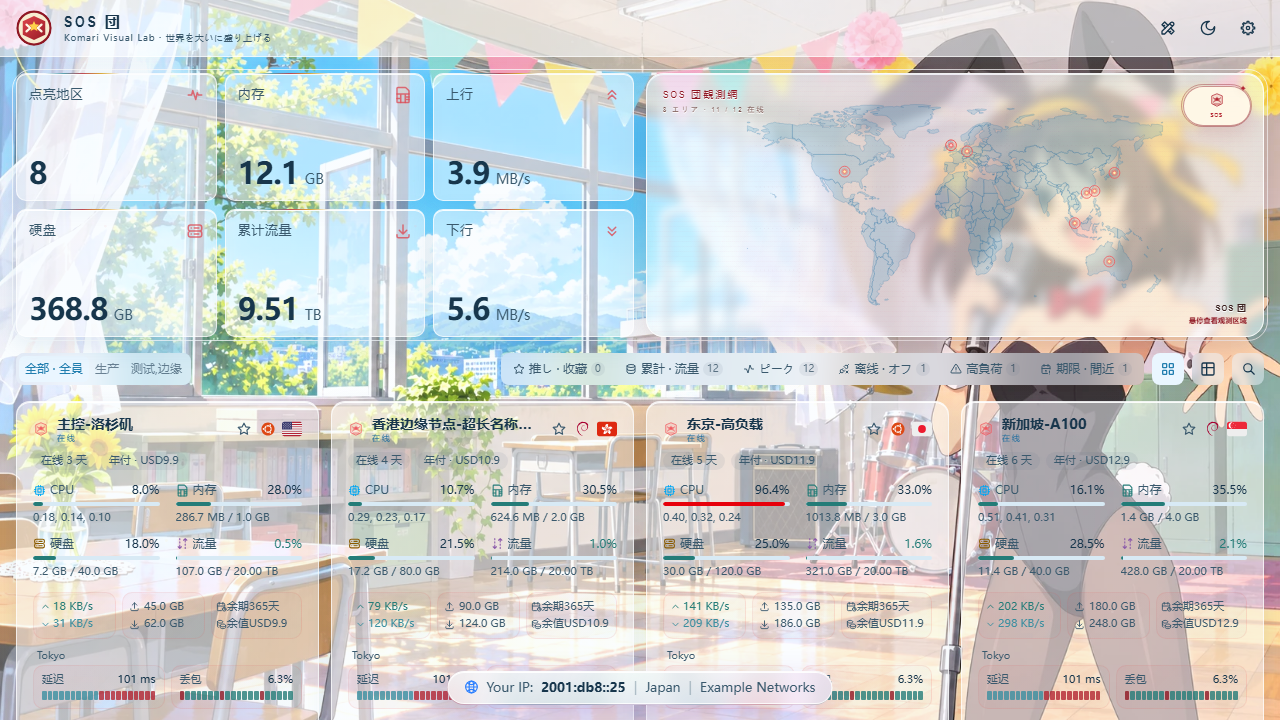
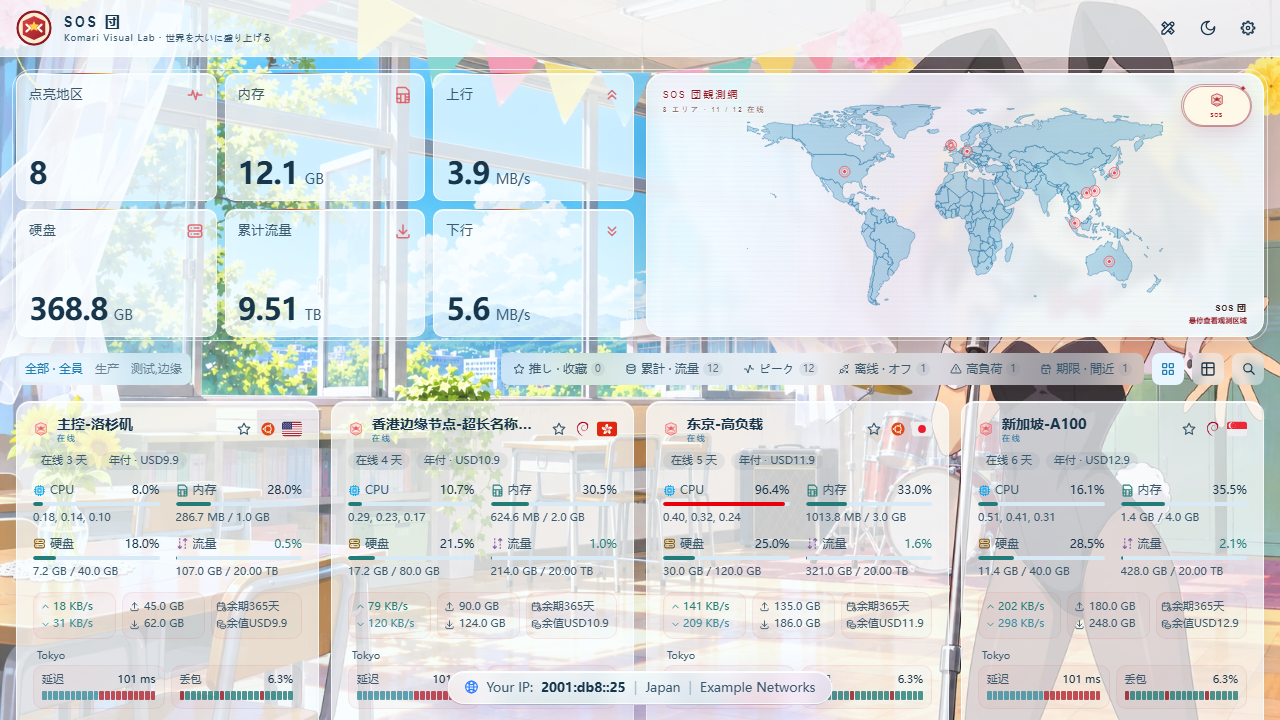
Improve map visibility and reduce card transparency

diff --git a/src/styles/main.css b/src/styles/main.css
@@ -93,7 +93,7 @@
 :root {
   --background: #eaf6ff;
   --foreground: #17364c;
-  --card: #f7fcff85;
+  --card: #f7fcffb8;
   --card-foreground: #17364c;
   --popover: #f7fcfff5;
   --popover-foreground: #17364c;
@@ -127,7 +127,7 @@
 .dark {
   --background: #24435f;
   --foreground: #f7fcff;
-  --card: #24435f9e;
+  --card: #24435fc7;
   --card-foreground: #f7fcff;
   --popover: #24435ff5;
   --popover-foreground: #f7fcff;
@@ -368,7 +368,7 @@ html.legacy-webkit [data-slot='card'] {
 .bg-card,
 [data-slot='card'] {
   /* One translucent paint layer: do not stack opaque gradients over the wallpaper. */
-  background: var(--glass-light-card, rgb(247 252 255 / 0.52)) !important;
+  background: var(--glass-light-card, rgb(247 252 255 / 0.72)) !important;
   border: 1px solid var(--glass-light-border, rgb(226 232 240 / 0.68)) !important;
   backdrop-filter: blur(5px) saturate(115%) !important;
   -webkit-backdrop-filter: blur(5px) saturate(115%) !important;
@@ -378,7 +378,7 @@ html.legacy-webkit [data-slot='card'] {
 :root:not(.dark) .node-card,
 :root:not(.dark) .bg-card,
 :root:not(.dark) [data-slot='card'] {
-  background: var(--glass-light-card, rgb(247 252 255 / 0.52)) !important;
+  background: var(--glass-light-card, rgb(247 252 255 / 0.72)) !important;
 }
 
 .node-card:hover,
@@ -393,7 +393,7 @@ html.legacy-webkit [data-slot='card'] {
 .dark .node-card,
 .dark .bg-card,
 .dark [data-slot='card'] {
-  background: var(--glass-dark-card, rgb(36 67 95 / 0.62)) !important;
+  background: var(--glass-dark-card, rgb(36 67 95 / 0.78)) !important;
   border: 1px solid var(--glass-dark-border, rgb(255 255 255 / 0.18)) !important;
   box-shadow: var(--glass-dark-shadow, 0 8px 30px rgb(0 0 0 / 0.48)) !important;
 }
@@ -552,25 +552,25 @@ header {
 
 .gloria-header {
   border-color: rgb(214 242 255 / 0.4) !important;
-  background: rgb(36 67 95 / 0.58);
+  background: rgb(36 67 95 / 0.78);
 }
 
 .gloria-header--scrolled {
   border-color: rgb(214 242 255 / 0.5) !important;
-  background: rgb(36 67 95 / 0.76) !important;
+  background: rgb(36 67 95 / 0.88) !important;
   box-shadow: 0 8px 30px rgb(23 54 76 / 0.12);
 }
 
 :root:not(.dark) .gloria-header {
   border-color: rgb(255 255 255 / 0.64) !important;
-  background: rgb(247 252 255 / 0.58) !important;
+  background: rgb(247 252 255 / 0.78) !important;
   color: #17364c;
   box-shadow: 0 6px 24px rgb(54 115 160 / 0.08);
 }
 
 :root:not(.dark) .gloria-header--scrolled {
   border-color: rgb(255 255 255 / 0.72) !important;
-  background: rgb(247 252 255 / 0.8) !important;
+  background: rgb(247 252 255 / 0.88) !important;
   box-shadow: 0 8px 26px rgb(54 115 160 / 0.12);
 }
 
@@ -622,7 +622,7 @@ header {
 .gloria-stat-card,
 .node-card {
   border: 1px solid var(--glass-dark-border, rgb(214 242 255 / 0.45)) !important;
-  background: var(--glass-dark-card, rgb(36 67 95 / 0.62)) !important;
+  background: var(--glass-dark-card, rgb(36 67 95 / 0.78)) !important;
   box-shadow:
     inset 0 1px rgb(255 255 255 / 0.2),
     var(--glass-dark-shadow, 0 8px 26px rgb(23 54 76 / 0.18)) !important;
@@ -646,7 +646,7 @@ header {
 .gloria-stat-card:hover,
 .node-card:hover {
   border-color: rgb(214 242 255 / 0.7) !important;
-  background: var(--glass-dark-card-hover, rgb(41 77 107 / 0.69)) !important;
+  background: var(--glass-dark-card-hover, rgb(41 77 107 / 0.84)) !important;
   box-shadow:
     inset 0 1px rgb(255 255 255 / 0.28),
     0 10px 30px rgb(54 115 160 / 0.2) !important;
@@ -661,7 +661,7 @@ header {
 :root:not(.dark) .gloria-stat-card,
 :root:not(.dark) .node-card {
   border-color: var(--glass-light-border, rgb(255 255 255 / 0.8)) !important;
-  background: var(--glass-light-card, rgb(247 252 255 / 0.52)) !important;
+  background: var(--glass-light-card, rgb(247 252 255 / 0.72)) !important;
   color: var(--glass-light-text, #17364c) !important;
   box-shadow:
     inset 0 1px rgb(255 255 255 / 0.9),
@@ -677,7 +677,7 @@ header {
 :root:not(.dark) .gloria-stat-card:hover,
 :root:not(.dark) .node-card:hover {
   border-color: rgb(255 255 255 / 0.92) !important;
-  background: var(--glass-light-card-hover, rgb(247 252 255 / 0.61)) !important;
+  background: var(--glass-light-card-hover, rgb(247 252 255 / 0.8)) !important;
   box-shadow:
     inset 0 1px rgb(255 255 255 / 0.96),
     0 12px 30px rgb(54 115 160 / 0.18) !important;

diff --git a/src/components/GloriaWorldMap.vue b/src/components/GloriaWorldMap.vue
@@ -221,8 +221,8 @@ onMounted(async () => {
           @blur="clearMarker"
         >
           <circle class="gloria-world-map__pulse" r="13" />
-          <circle class="gloria-world-map__halo" r="8" />
-          <circle class="gloria-world-map__dot" r="4.2" />
+          <circle class="gloria-world-map__halo" r="8.5" />
+          <circle class="gloria-world-map__dot" r="5" />
         </g>
       </g>
     </svg>
@@ -249,8 +249,8 @@ onMounted(async () => {
   inset: 0;
   overflow: hidden;
   background:
-    radial-gradient(circle at 78% 28%, rgb(255 218 125 / 0.16), transparent 34%),
-    linear-gradient(145deg, rgb(58 112 149 / 0.24), rgb(52 97 137 / 0.18));
+    radial-gradient(circle at 78% 28%, rgb(255 218 125 / 0.06), transparent 34%),
+    linear-gradient(145deg, rgb(58 112 149 / 0.06), rgb(52 97 137 / 0.04));
 }
 
 .gloria-world-map::before {
@@ -300,11 +300,11 @@ onMounted(async () => {
 }
 
 .gloria-world-map__countries path {
-  fill: rgb(159 223 255 / 0.22);
+  fill: rgb(159 223 255 / 0.3);
   fill-rule: evenodd;
-  stroke: rgb(214 242 255 / 0.76);
+  stroke: rgb(214 242 255 / 0.9);
   stroke-linejoin: round;
-  stroke-width: 0.78;
+  stroke-width: 1.05;
   transition:
     fill 180ms ease,
     stroke 180ms ease,
@@ -337,7 +337,7 @@ onMounted(async () => {
 .gloria-world-map__dot {
   fill: #fff2b2;
   stroke: #f05b60;
-  stroke-width: 1.5;
+  stroke-width: 1.8;
   filter: url(#gloria-marker-glow);
 }
 .gloria-world-map__marker.is-active .gloria-world-map__halo {
@@ -392,8 +392,8 @@ onMounted(async () => {
 
 :global(:root:not(.dark) .gloria-world-map) {
   background:
-    radial-gradient(circle at 76% 30%, rgb(255 226 143 / 0.16), transparent 36%),
-    linear-gradient(145deg, rgb(222 246 255 / 0.36), rgb(247 252 255 / 0.2));
+    radial-gradient(circle at 76% 30%, rgb(255 226 143 / 0.06), transparent 36%),
+    linear-gradient(145deg, rgb(222 246 255 / 0.06), rgb(247 252 255 / 0.04));
 }
 
 :global(:root:not(.dark) .gloria-world-map::before) {
@@ -416,8 +416,14 @@ onMounted(async () => {
 }
 
 :global(:root:not(.dark) .gloria-world-map__countries path) {
-  fill: rgb(62 158 204 / 0.2);
-  stroke: rgb(35 111 159 / 0.6);
+  fill: rgb(62 158 204 / 0.34);
+  stroke: rgb(35 111 159 / 0.88);
+}
+
+:global(:root:not(.dark) .gloria-world-map__dot) {
+  fill: #e74855;
+  stroke: #ffffff;
+  stroke-width: 2;
 }
 
 :global(:root:not(.dark) .gloria-world-map__countries path.is-active) {

diff --git a/src/utils/glassTheme.ts b/src/utils/glassTheme.ts
@@ -77,18 +77,18 @@ const PRESET_TOKENS: Record<Exclude<GlassColorPreset, 'custom'>, GlassThemeToken
     darkShadow: '0 10px 34px rgb(0 0 0 / 0.58)',
   },
   midnight: {
-    lightCard: '#f7fcff85',
-    lightCardHover: '#f7fcff9c',
-    lightControl: '#f7fcffa6',
-    lightHeader: '#f7fcffad',
+    lightCard: '#f7fcffb8',
+    lightCardHover: '#f7fcffcc',
+    lightControl: '#f7fcffc7',
+    lightHeader: '#f7fcffcc',
     lightText: '#17364c',
     lightMutedText: '#3a596d',
     lightBorder: '#ffffffb3',
     lightShadow: '0 8px 26px rgb(54 115 160 / 0.13)',
-    darkCard: '#24435f9e',
-    darkCardHover: '#294d6bb0',
-    darkControl: '#24435fb3',
-    darkHeader: '#24435fba',
+    darkCard: '#24435fc7',
+    darkCardHover: '#294d6bd6',
+    darkControl: '#24435fd1',
+    darkHeader: '#24435fd6',
     darkText: '#f7fcff',
     darkMutedText: '#e0f0fa',
     darkBorder: '#d6f2ff73',

diff --git a/src/components/GloriaCore.vue b/src/components/GloriaCore.vue
@@ -79,7 +79,7 @@ onBeforeUnmount(() => {
   overflow: hidden;
   border: 1px solid rgb(214 242 255 / 0.5);
   border-radius: 1.1rem;
-  background: rgb(36 67 95 / 0.45);
+  background: rgb(36 67 95 / 0.88);
   backdrop-filter: blur(5px) saturate(115%);
   -webkit-backdrop-filter: blur(5px) saturate(115%);
   box-shadow:
@@ -89,7 +89,7 @@ onBeforeUnmount(() => {
 
 :global(:root:not(.dark) .gloria-stage) {
   border-color: rgb(255 255 255 / 0.88);
-  background: rgb(247 252 255 / 0.38);
+  background: rgb(239 249 255 / 0.9);
   box-shadow:
     inset 0 1px rgb(255 255 255 / 0.94),
     0 16px 40px rgb(143 23 35 / 0.16),

diff --git a/src/stores/app.ts b/src/stores/app.ts
@@ -583,13 +583,13 @@ const COLOR_VISION_MODE_ALIASES: Record<string, ColorVisionMode> = {
 }
 
 const DEFAULT_GLASS_CUSTOM_COLORS: GlassCustomColors = {
-  lightCard: '#f7fcff85',
-  lightControl: '#f7fcffa6',
+  lightCard: '#f7fcffb8',
+  lightControl: '#f7fcffc7',
   lightText: '#17364c',
   lightMutedText: '#3a596d',
   lightBorder: '#ffffffb3',
-  darkCard: '#24435f9e',
-  darkControl: '#24435fb3',
+  darkCard: '#24435fc7',
+  darkControl: '#24435fd1',
   darkText: '#f7fcff',
   darkMutedText: '#e0f0fa',
   darkBorder: '#d6f2ff73',

diff --git a/README.md b/README.md
@@ -8,7 +8,7 @@
 
 - 晴空蓝、暖白、柠檬黄与 SOS 团袖章红，表现晴天校园祭的轻快青春感。
 - 内置晴天兔女郎凉宫春日桌面横图和手机竖图：蓝天白云、飘动窗帘、彩色拉旗和洒满阳光的活动室。
-- 服务器卡片使用单层透明玻璃：明亮模式约 52% 不透明度，夜间约 62%，5px 轻磨砂，能透出下方人物与活动室轮廓；悬停依然透底。
+- 服务器卡片使用单层磨砂玻璃：明亮模式约 72% 不透明度，夜间约 78%，5px 轻磨砂，保留适量背景轮廓；地图约 90% 不透明度，边界和节点亮点更清楚。
 - 默认使用明亮模式，夜间为通透的蓝色玻璃，保留背景亮度。已有站点若仍为夜间，可在右上角切到明亮，或在后台将默认主题模式设为 `light`。
 - 独立 SOS 六边形徽记，用于页签图标、站点头像、节点在线状态和地图彩蛋。
 - 节点随机显示《God knows...》《ハレ晴レユカイ》《冒険でしょでしょ？》等系列曲目标签。
